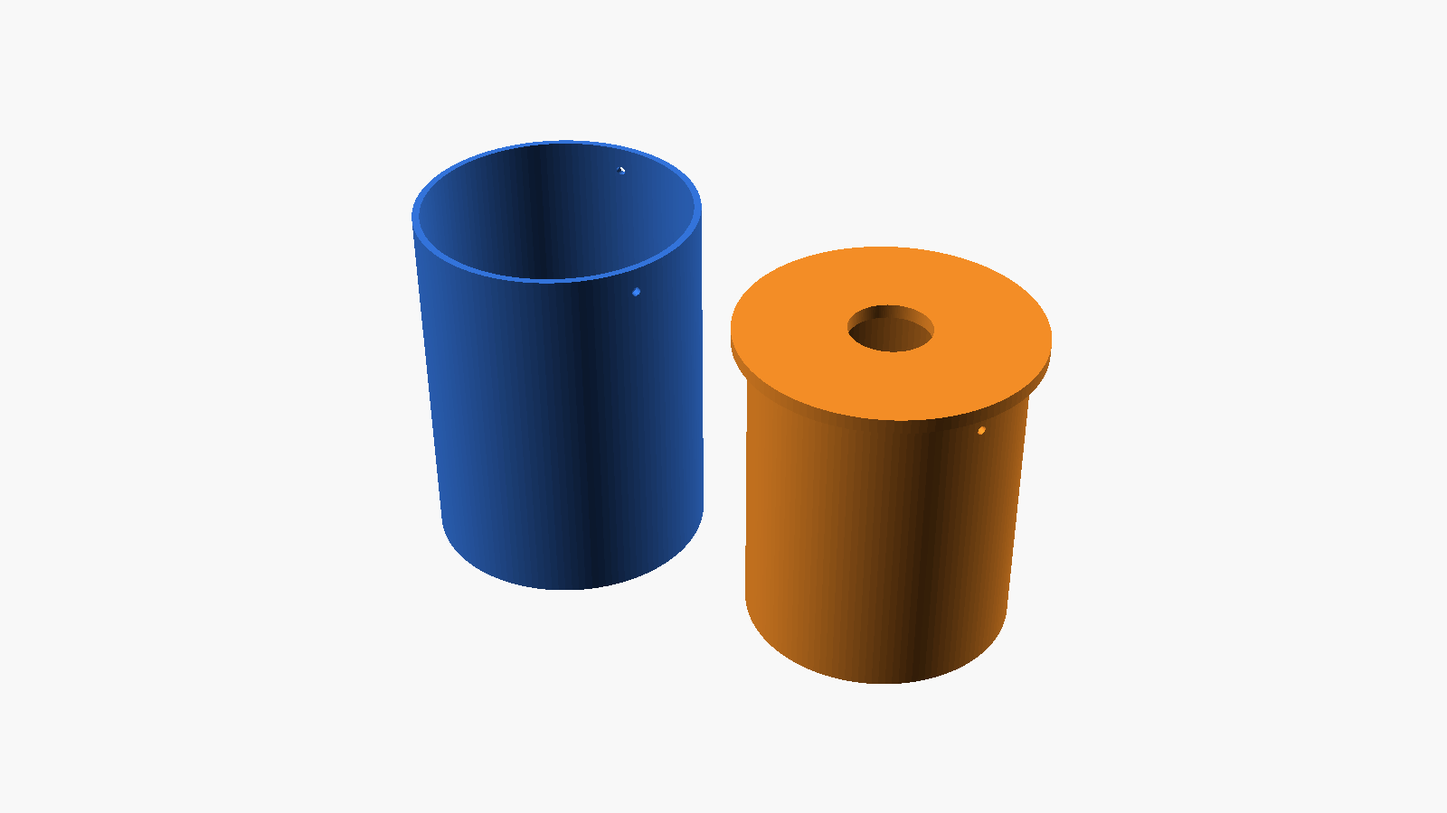
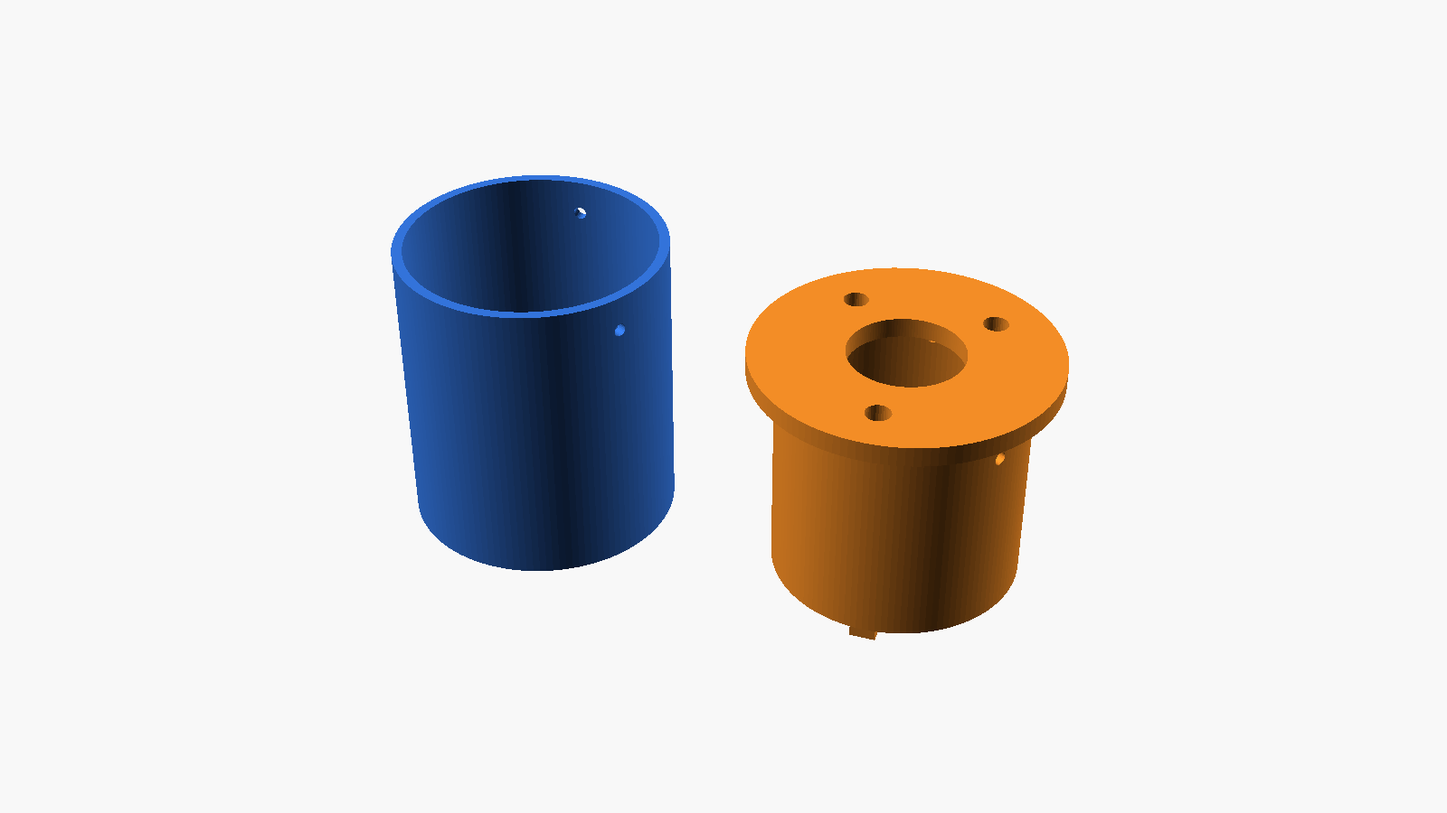
WALL-E: eye cartridge for the 1.75" AMOLED in the 54 mm tube, BOM orders
- cad/eye: cartridge redrawn for the Waveshare ESP32-S3-Touch-AMOLED-1.75
  in a 54 x 90 steel tube; the board screws onto part 2 by its 3 M2 posts
  (positions from Waveshare's 3D model). README: wiring through the back
  header, GPS board, assembly, print notes. Old 2D section removed.
- BOM: eyes (2 standard + 1 GPS version replacing the NEO-M9N), GPS
  antenna parts, 5 CP2102, TOF400C x6 (5 used) + 2 TCA9548A, TPA3116D2
  amp, Pioneer speakers, body fans + filters + D4184 modules, USB hub;
  box vent skipped; chest screen and XPS power left for the end.

Changed region(s): [[0.25, 0.1556, 0.75, 0.84]]

diff --git a/WALL-E/docs/05-bom.md b/WALL-E/docs/05-bom.md
@@ -84,7 +84,7 @@ has the reasoning. Cheap parts, so buy spares of all of them.
 |---|---|---|---|---|---|
 | 5 m | Closed-cell foam tape, 3 mm, self-adhesive | 10 | Stock | The lid gasket. EPDM, not open-cell — open-cell soaks up water and holds grit. | [search](https://www.aliexpress.com/w/wholesale-EPDM-foam-tape-3mm.html) |
 | 1 sheet | Closed-cell foam, 8 mm | 10 | Stock | The pad on top of the packs. Clamps them down and takes the vibration. | [search](https://www.aliexpress.com/w/wholesale-closed-cell-foam-sheet-8mm.html) |
-| 2 | Screw-in membrane vent, M12, IP67 (Gore type or equivalent) | 16 | Stock | 1 needed, 1 spare. Goes in the **lid**. A sealed box breathes with the day/night temperature swing; this is the clean path so it does not pull dust through a leak. | [search](https://www.aliexpress.com/w/wholesale-M12-waterproof-breather-vent.html) |
+| 0 | Screw-in membrane vent, M12, IP67 (Gore type or equivalent) | 0 | **Skipped** (owner, 2026-09-30) | **Not buying.** Packs are sealed on their own and plywood breathes a little anyway. Instead: seal the lid well and check for dust inside the box once during the festival. Was: 1 in the **lid**. A sealed box breathes with the day/night temperature swing; this is the clean path so it does not pull dust through a leak. | [search](https://www.aliexpress.com/w/wholesale-M12-waterproof-breather-vent.html) |
 | 4 | Cable gland, M16, IP68 | 10 | Stock | Charge leads and pack sense wiring out of the box. Not a drilled hole. **The gland holds a jumper, not the pack.** Each traction pack unplugs inside the box (XT60 plus a charge pigtail) so the pack lifts out. | [search](https://www.aliexpress.com/w/wholesale-cable-gland-M16-IP68.html) |
 | 16 | M5 bolts, nuts and washers, 25 mm | 8 | Stock | 12 for the lid at 110 mm pitch, plus spares. A gasket only seals where it is squeezed. | [search](https://www.aliexpress.com/w/wholesale-M5-bolt-nut-washer-set.html) |
 | 3 | **XT60** charge connector with a dust cap, body-mounted | 18 | Stock | One per traction pack, plus one for the electronics battery. **Daily charge is in place.** Each pack also has the mating half on the pack itself, so you can unplug and charge it on a bench. **Label all three.** Two are 48 V and one is 12 V, and the connectors are identical. | [search](https://www.aliexpress.com/w/wholesale-XT60-panel-mount-connector.html) |
@@ -104,16 +104,19 @@ Brain = owned XPS 15 9510 (L25). No internet. Two floors (L26). Camera ordered (
 
 | Qty | Part | Est. | Lead | Notes | Buy from — **read §9 first** |
 |---|---|---|---|---|---|
-| 1 | Filtered intake fan for the body | 15 | Stock | Air **in**. Positive pressure. | [search](https://www.aliexpress.com/w/wholesale-120mm-12V-fan-filter.html) |
-| 1 | Powered USB-C hub, USB 3 | 25 | Stock | The XPS has USB-C only. Webcam, LiDAR, Teensy, both Face boards and the mic share this hub. **Power the hub from the 12 V rail**, not from the laptop. | [search](https://www.aliexpress.com/w/wholesale-powered-USB-C-hub-USB3.html) |
-| 1 | USB-C PD power bank, 20 000 mAh, **65 W or more** | 40 | Stock | Feeds the XPS. Check the label says 65 W PD, not 22.5 W. Strap it on the **lower** deck, not on the laptop tray. Keep it off the laptop vents. Pull it if it gets hot. | local / [search](https://www.aliexpress.com/w/wholesale-20000mAh-65W-PD-power-bank.html) |
+| 2 | Body fans: **Gdstime 12025 IP67, 12 V, dual ball, 2500 RPM**, 2-wire + 120 mm filter/grille set (2) + PC filter sheet 500×400 (3/5 mm, cut 12 pads) + **4 × D4184 MOSFET module** | 25 | **Bought 2026-10-02** | 1 intake (filtered, low on the back, away from the tracks) + passive vent high on the other side; the 2nd fan is the spare or a slow exhaust later (intake must stay ≥ exhaust: positive pressure, or dust comes in through the gaps). Teensy PWM (100–500 Hz, kick-start 1 s at 100 %, never under ~40 %) through a D4184 on the fan minus; the laptop sends the speed from its CPU/GPU temperature. ~3 W full, ~0.8 W at 60 %. D4184s also for the chest screen. Swap/wash filter pads every 1–2 days. | [search](https://www.aliexpress.com/w/wholesale-120mm-12V-fan-filter.html) |
+| 1 | Powered USB hub: **ASOMETECH 7-port USB 3.0, 12 V adapter**, metal, switch per port, USB-C adapter included | 25 | **Ordered 2026-09-30**, ₪76.22 | 7 ports = 7 devices, no spare port (mic goes straight into the XPS). Power: a **DC barrel pigtail** (check size, usually 5.5 × 2.1) from the 12 V rail with a **3 A fuse**; keep the adapter whole for the bench. **Meter the polarity first** (usually centre +). No screw holes: strap or printed clip; tape the upstream cable and C adapter. The XPS has USB-C only. Webcam, LiDAR, Teensy, both Face boards and the mic share this hub. **Power the hub from the 12 V rail**, not from the laptop. | [search](https://www.aliexpress.com/w/wholesale-powered-USB-C-hub-USB3.html) |
+| 1 | USB-C PD power bank, 20 000 mAh, **65 W or more** | 40 | Stock | Feeds the XPS. Check the label says 65 W PD, not 22.5 W. Strap it on the **lower** deck, not on the laptop tray. Keep it off the laptop vents. Pull it if it gets hot. **Open (owner, 2026-09-30; decide at the end of the BOM):** instead, charge the XPS from the 12 V battery: battery → 10 A fuse → **12 V → USB-C PD 65 W converter** (hard-wired, not a lighter plug) → XPS. ~5–6 A from 12 V. A 20 Ah battery then lasts only ~3–3.5 h: options are a **12 V 50 Ah** battery (~8 h, check it fits the lower deck), swap/charge at midday, or a 48 V → USB-C PD converter from a drive pack. | local / [search](https://www.aliexpress.com/w/wholesale-20000mAh-65W-PD-power-bank.html) |
 | 1 | ELP-USB1080P03-KLC1100, metal cube, LC1100 lens | 52 | Ordered 2026-09-23 | **L27.** 1080p 30 fps, SC2210, USB 2.0 UVC, 5 V 180 mA, 3 m cable. **42 × 42 × 36 mm**. LC1100 **86°**. ₪195.65. | owned |
 | 1 | **WitMotion COIN-D6** dToF LiDAR, 12 m, 360° (was RPLIDAR A1M8) | 44 | Stock | Only needed for **ASSIST** (WALL-E driving himself); MANUAL does not use it. dToF, **60 klx** sunlight rating (the A1M8 is triangulation and weak in sun), brushless, IPX4, Class 1 eye-safe. 0.05–12 m, 0.9°, 10 Hz, 4000 pts/s. 5 V 240 mA (800 mA start), 3.3 V UART 230400 with a USB adapter in the box. Operating to **50 °C**: shade it. Protocol PDF, spec sheet and ROS drivers (source) are in the seller's [Drive folder](https://drive.google.com/drive/folders/1_XfZTemyIBoZssQmFW5Jx17jxx3hn337): start `AA 55 F0 0F`, stop `AA 55 F5 0A`, `0x55AA` packets, angle correction in the driver. `perception.py` `_lidar_loop` is still a TODO. | AliExpress ₪163.98, WitMotion, "D6 Lidar" |
-| 6 | VL53L1X time-of-flight distance sensor | 24 | Stock | The bumper ring. These wire to the **Spine**, not the Brain. | [search](https://www.aliexpress.com/w/wholesale-VL53L1X-module.html) |
-| 1 | I2C multiplexer (TCA9548A) | 3 | Stock | Six VL53L1X boards share one I2C address. You need this or you need to sequence their XSHUT pins. | [search](https://www.aliexpress.com/w/wholesale-TCA9548A-I2C-multiplexer.html) |
+| 6 | VL53L1X time-of-flight sensor: **TOF400C-VL53L1X** module (4 m, with black cover) | 23 | **Bought 2026-10-02**, ₪13.20 each | The bumper ring: **5 on the robot (3 front: left, centre, right with the corners ~30° out; 2 back) + 1 spare** (owner, 2026-10-02; was 6). These wire to the **Spine**, not the Brain. Height ~30–40 cm. Check the label says **TOF400C** (the listing photos show TOF200C = VL53L0X). Dust: keep the cover, wipe daily, crosstalk-calibrate with the cover on; firmware flags a sensor that reads short for long ("dirty"). Firmware: `TOF_COUNT` 6 → 5, `TOF_FWD` 3, `TOF_AFT` 2. | [search](https://www.aliexpress.com/w/wholesale-VL53L1X-module.html) |
+| 2 | I2C multiplexer (TCA9548A), 1 + 1 spare | 5 | **Bought 2026-10-02** | Six VL53L1X boards share one I2C address. You need this or you need to sequence their XSHUT pins. | [search](https://www.aliexpress.com/w/wholesale-TCA9548A-I2C-multiplexer.html) |
 | 1 | **GY-BNO085** IMU board, 9-axis fused | 12 | **Ordered 2026-09-28**, ₪44.90 | Pitch for tip safety (ASSIST is refused without it: robot tips forward at 19.4°, castor catches at 9.9°, stop forward above ~7°) and a heading. Wired as **UART-RVC**: **PS0 → 3V3, PS1 → GND**, set before power-up; then **SDA is TX**, 115200 baud, 19-byte packets `AA AA` at 100 Hz with yaw/pitch/roll in 0.01°. Power from 3V3, not 5 V. Only SDA → adapter RXD is needed. Mount flat on the frame, away from the hub motors and power cables (the compass reads their magnets; pitch does not care). | ordered |
-| 1 | USB-TTL adapter, **CP2102**, with a 3V3 output pin | 3 | Stock | Brings the BNO085's serial stream to the laptop (COM port), no Teensy needed. CP2102 is 3.3 V logic; a CH340 board needs its jumper on 3.3 V. | [search](https://www.aliexpress.com/w/wholesale-CP2102-USB-TTL.html) |
-| 1 | u-blox NEO-M9N GPS module | 50 | Stock | Midburn is a flat featureless plain. GPS, not SLAM. | [search](https://www.aliexpress.com/w/wholesale-NEO-M9N-GPS-module.html) |
+| 5 | USB-TTL adapter, **CP2102** (5-pin: 3V3, TXD, RXD, GND, +5V) | 9 | **Bought**: 1 earlier + 4 on 2026-10-01 (₪6.44 each) | 1 for the BNO085 IMU, 1 per eye, 2 spare. Eye: CP2102 TXD → eye RXD, RXD → eye TXD, GND → GND; leave the CP2102 +5V and 3V3 empty (eye power from the RCNUN 5 V). CP2102 is 3.3 V logic. Not PL2303 (fakes, Windows blocks them). | bought |
+| 1 | GPS: **Waveshare ESP32-S3-Touch-AMOLED-1.75-G** (GPS version, LC76G) — one eye board doubles as the GPS | 35 | **Bought 2026-10-01** (~₪124) | **Replaces the u-blox NEO-M9N** (owner, 2026-10-01). Midburn is a flat featureless plain: GPS, not SLAM. LC76G → ESP32 on IO17/IO18 (do not use those header pins for anything else); the eye firmware forwards NMEA to the laptop on its TXD/RXD link. The included ceramic antenna plugs into the **IPEX 1 (u.FL)** socket next to the USB-C: unplug it, unscrew it, keep it for bench tests. The steel tube blocks GPS, so the antenna goes outside (rows below). The 2 standard boards: one eye + one spare. | Waveshare / TOP1 store |
+| 1 lot (5) | Pigtail **IPEX (u.FL) → SMA female**, 1.13 mm, **20 cm** | 3 | **Bought 2026-10-01** (₪11.36) | Board GPS socket → SMA nut in the head wall. Plug the u.FL once; do not pull it; drop of hot glue on the cable. | AliExpress |
+| 1 | **GPS active antenna: QUESCAN 30 dB, SMA male (SMA-J)**, GPS/GLONASS/Galileo/BeiDou, 15 cm cable | 6 | **Bought 2026-10-01** (₪16.49) | **Bare patch, not waterproof:** under the head top cover (dry plywood/plastic; not steel), white square up. SMA socket high in the head so 15 cm reaches; if short, add an SMA male→female RG174 extension 0.5–1 m. **SMA male, not RP-SMA.** Active 3–5 V: the LC76G powers it through the cable. Test outside before the festival (first fix 1–2 min). | [search](https://www.aliexpress.com/w/wholesale-GPS-active-antenna-SMA-male-waterproof.html) |
+| 1 pack + 5 m | **Dupont jumpers male-female**, 20–30 cm, and **4-core shielded cable 24 AWG** | 8 | Stock | The eye header is **female** (holes): male end into the eye, female onto the CP2102 / RCNUN lead. 4 wires per eye: VBUS, GND, TXD, RXD. Fix plugs with hot glue against vibration. | AliExpress |
 | 1 | Microphone: **BOYA BY-MM1** cardioid shotgun (3.5 mm, furry windshield) + **USB-C sound card** | 26 | **Ordered 2026-09-30**, ₪87.99 + ₪7.73 | Laptop mic is inside the body: this goes up front, high, pointing at people's mouths, above the speakers. Mic → sound card mic input (TRS cable, 3 rings, not the coiled phone cable) → USB. Sound card has a **USB-C plug**: fits the XPS, or the hub only with a USB-C port or a C → A adapter. Cheap card: test the mic's plug-in power level; backup Vention USB sound card ₪19. Set WALL-E to this input when it arrives. | ordered |
 
 ---
@@ -122,14 +125,14 @@ Brain = owned XPS 15 9510 (L25). No internet. Two floors (L26). Camera ordered (
 
 | Qty | Part | Est. | Lead | Notes | Buy from — **read §9 first** |
 |---|---|---|---|---|---|
-| 2 | ESP32-S3 development board | 24 | Stock | Two, one per eye. See the warning below. | [search](https://www.aliexpress.com/w/wholesale-ESP32-S3-development-board.html) |
-| 2 | 2.1 inch round LCD, 480×480, QSPI (Waveshare) | 60 | Stock | 53 mm active area. The barrel in the CAD model is built around this size. | [search](https://www.aliexpress.com/w/wholesale-2.1-inch-round-LCD-480x480-QSPI.html) **§9** |
-| 2 | Clear acrylic dome or lens, Ø99 | 20 | Stock | Dust seal and the glassy look. `cad/walle_frame.scad`. | [search](https://www.aliexpress.com/w/wholesale-acrylic-dome-100mm.html) |
+| 2 | Eye: **Waveshare ESP32-S3-Touch-AMOLED-1.75**, standard version (no case, no GPS) | 52 | **Bought 2026-10-01**, ₪95.40 each | One per eye, in the **54 mm (inside) × 90 mm** steel tube. ESP32-S3R8 + 1.75" round AMOLED 466×466, 700 nits. Glass Ø48.96, picture Ø43.76, board Ø46.0, 10.4 mm thick (Waveshare drawing). USB-C is on the board edge, facing the tube wall: no room for a plug. **In the robot use the back header** `IO18 IO17 IO16 RXD TXD 3V3 GND VBUS`: VBUS + GND = 5 V from the RCNUN, TXD/RXD → CP2102 → hub. AMOLED burns in: keep the eyes moving, off in sleep. `cad/eye/README.md`. | Waveshare store |
+| 0 | ~~2.1 inch round LCD + separate ESP32-S3 board~~ | 0 | **Replaced** (2026-10-01) | The AMOLED board above has screen + ESP32 in one. The 2.1" (Ø75) does not fit the eye tubes. | — |
+| 0 | ~~Clear acrylic dome, Ø99~~ | 0 | **Dropped** (2026-10-01) | Screen sits ~30 mm deep in the tube behind its own glass; foam ring + printed lip seal the front. | — |
 | 1 | Camera mount hardware and a plywood hood for the lens | 15 | Stock | The ELP cube goes **under** the eye barrels, not between them. See the head note below. | local |
-| 1 | **TPA3116D2 two-chip** board (one chip per channel, big heatsink, sold as "150 W × 2", 12–26 V) | 8 | Stock | Owner, 2026-09-29: replaces the TPA3255 (price). Two-chip over the XH-M567 for heat in the sealed box, not for volume: 24 V sets the power either way. No tone knobs; set tone on the XPS. **Check the capacitors are 35 V**, not 25 V, before paying. Runs on the **24 V** supply, not the pack and not the 12 V rail. **26 V maximum.** About 50 W per channel into 4 Ω: roughly 108 dB peak at 1 m with two 88 dB speakers, about 3 dB below the TPA3255. Buy the speakers on sensitivity to win that back. `04-power-and-wiring.md` section 4. | [search](https://www.aliexpress.com/w/wholesale-TPA3116D2-amplifier-board.html) |
-| 2 | Full-range or coaxial speaker, 6.5 inch, **4 Ω** | 60 | Stock | One per amplifier channel. Ø165 cutout, Ø190 rim, 50 mm deep — the chest panel is drilled for exactly that. **Check the mounting depth on the one you buy**; over 200 mm and the enclosure has to grow. | [search](https://www.aliexpress.com/w/wholesale-6.5-inch-speaker-4-ohm.html) |
-| 2 | Speaker grille, Ø190, steel | 20 | Stock | Not optional. A crowd will push a finger through an open cone. | [search](https://www.aliexpress.com/w/wholesale-speaker-grille-190mm.html) |
-| 1 | 7 inch HDMI LCD, 800×480, **183 × 107 mm** | 25 | Stock | **L28.** Portrait between the speakers: 107 wide, 183 tall. 16.5 mm to each rim. HDMI from the XPS. Power from the 12 V rail. Acrylic cover. Not the Spine. | [search](https://www.aliexpress.com/w/wholesale-7-inch-HDMI-LCD-800x480.html) |
+| 1 | **TPA3116D2 two-chip** board (one chip per channel, big heatsink, sold as "150 W × 2", 12–26 V) | 8 | **Bought 2026-10-02**, ₪26.24 (RGeek Official Store, blue board, 3-pin input lead; check the caps say 35 V on arrival) | Owner, 2026-09-29: replaces the TPA3255 (price). Two-chip over the XH-M567 for heat in the sealed box, not for volume: 24 V sets the power either way. No tone knobs; set tone on the XPS. **Check the capacitors are 35 V**, not 25 V, before paying. Runs on the **24 V** supply, not the pack and not the 12 V rail. **26 V maximum.** About 50 W per channel into 4 Ω: roughly 108 dB peak at 1 m with two 88 dB speakers, about 3 dB below the TPA3255. Buy the speakers on sensitivity to win that back. `04-power-and-wiring.md` section 4. | [search](https://www.aliexpress.com/w/wholesale-TPA3116D2-amplifier-board.html) |
+| 2 | Speaker, 6.5 inch coaxial, **4 Ω**: **Pioneer TS-A1688S** pair (assumed; owner bought 2026-10-02 from alexsander.co.il, my pick of the 3 shown) | 75 | **Bought 2026-10-02**, ₪269 the pair | ~92 dB, ~80 W RMS (from memory: check the box). Plastic/mesh grilles included. One per amplifier channel. Ø165 cutout, Ø190 rim, 50 mm deep — the chest panel is drilled for exactly that. **Check the mounting depth on the one you buy**; over 200 mm and the enclosure has to grow. | [search](https://www.aliexpress.com/w/wholesale-6.5-inch-speaker-4-ohm.html) |
+| 2 | Speaker grille, Ø190, steel | 20 | Optional (2026-10-02) | The speakers came with grilles. Steel is stronger for crowds: decide after fitting. Was: not optional. A crowd will push a finger through an open cone. | [search](https://www.aliexpress.com/w/wholesale-speaker-grille-190mm.html) |
+| 1 | 7 inch HDMI LCD, 800×480, **183 × 107 mm** | 25 | **Open (owner, 2026-10-02): decide at the end of the BOM.** IPS, bright (≥400 nits), 12 V. Turn it off when not needed: Windows screen-off in sleep, plus a **D4184 MOSFET module** (×2) on its 12 V feed, switched by a Teensy pin (0 W off; ~3–6 W on). | **L28.** Portrait between the speakers: 107 wide, 183 tall. 16.5 mm to each rim. HDMI from the XPS. Power from the 12 V rail. Acrylic cover. Not the Spine. | [search](https://www.aliexpress.com/w/wholesale-7-inch-HDMI-LCD-800x480.html) |
 | — | 12 mm ply for the two enclosures, plus bracing | 25 | Stock | About 0.6 m². Sizes echoed by `cad/walle_frame.scad`. | timber yard |
 | — | Gasket tape, acoustic wadding, M5 bolts for the drivers and the boxes | 20 | Stock | The boxes **bolt** to the chest panel — they shade 54 % of the shelf and have to lift out. | [search](https://www.aliexpress.com/w/wholesale-acoustic-wadding-speaker.html) |
 | — | LED strip, drivers, eye illumination | 120 | Stock | | [search](https://www.aliexpress.com/w/wholesale-WS2812B-LED-strip.html) |
@@ -182,13 +185,13 @@ Set failsafe on every channel to the last column. Test: TX off, on blocks. Wirel
 |---|---|---|
 | 1 — de-risking (Teensy owned; FS-i6X set ordered, $41, not a $120 generic) | now | 173 |
 | 1b — throttle interface for the scooter controllers | now | 60 |
-| 2 — frame and drive, including sealing the box and the electronics battery | 1 | 651 |
-| 3 — compute and sensors (COIN-D6 $44, not the A1M8 $100; BNO085 ordered $12 + CP2102 $3) | 2 | 288 |
-| 4 — face and sound | 4 | 409 |
+| 2 — frame and drive, including sealing the box and the electronics battery | 1 | 635 |
+| 3 — compute and sensors (COIN-D6 $44, not the A1M8 $100; BNO085 ordered $12 + 5 × CP2102 $9; GPS = eye board -G + antenna $44, was NEO-M9N $50; jumpers/cable $8) | 2 | 296 |
+| 4 — face and sound (eyes: 2 × AMOLED 1.75 $52, no dome) | 4 | 357 |
 | 5 — body and head, plywood | 5 | 315 |
 | Tools and consumables not listed above | throughout | 250 |
 | Spares kit (`00-plan.md` phase 6) | 6 | 300 |
-| **Total** | | **≈ 2,446** |
+| **Total** | | **≈ 2,386** |
 
 Cut first: LiDAR, GPS+IMU, LED strip. Do not cut: DC contactors, crimp tool, current-limited bench supply, hardware watchdog.
 

diff --git a/WALL-E/cad/eye/README.md b/WALL-E/cad/eye/README.md
@@ -1,93 +1,118 @@
 # WALL-E eyes — steel tube + printed cartridge
 
-Decided with Shahar, 2026-09-30. One eye = one steel tube + one cartridge.
-Build 2.
-
-![side cut](eye_cartridge_cut.png)
+Decided with Shahar, 2026-10-01. One eye = one steel tube + one cartridge.
 
 ![the 2 printed parts](eye_cartridge_parts.png)
 
+![assembled, cut in half](eye_cartridge_cut.png)
+
 ## Decisions
 
-- **Eye body:** steel tube (owner's). ESP32 goes **inside** the tube.
-- **Screen:** Waveshare **ESP32-S3-Touch-LCD-2.1B**: round 480×480, ESP32-S3 on
-  the back, one USB-C. "B" = 2.5D curved glass (looks like an eyeball). Touch
-  not used. Board **Ø75**.
-- **Buy from:** Ingcool (official Waveshare distributor), ~₪121.55 each +
-  ~₪30.54 shipping. 2 needed.
-- **Sun shade:** screen sits **40 mm deep**. Inside of the tube painted
-  **matte black** (no liner).
-- **Mount:** a 2-part printed **cartridge**. The whole eye is built on the
-  table, then slides into the tube. **3 screws** from outside hold it.
-- **Cable seal:** PG16 gland (the USB-C plug passes through) + **silicone**
-  (better than hot glue: hot glue goes soft at 60–80 °C in the sun).
+- **Tube:** steel, **54 mm inside × 90 mm long** (owner's). Outside Ø: **measure**.
+- **Screen + computer:** Waveshare **ESP32-S3-Touch-AMOLED-1.75**: round AMOLED
+  466×466, 700 nits, ESP32-S3R8 on the back. Touch not used.
+  - Bought: 2 × standard + 1 × **-G** (GPS version). The GPS board is one eye
+    and the GPS. One standard board is the spare.
+- **Sun shade:** glass front sits **33 mm deep**. Paint the inside of the tube
+  **matte black**.
+- **Mount:** 2 printed parts. The board screws onto part 2 with **3 × M2**
+  into its own brass posts. The eye is built on the table, then slides into the
+  tube. **3 × M3** from outside hold it.
+- **Wires:** the USB-C is on the board edge, facing the tube wall: no room for a
+  plug. Use the **header on the back** instead (see Wiring).
+- **AMOLED burns in:** the eyes must always move a little, and turn off in sleep.
+
+## Board numbers (Waveshare 3D model)
+
+Measured from the glass front, along the axis:
+
+| What | Size / depth |
+|---|---|
+| Glass | Ø48.96, 1.10 thick |
+| Picture (visible) | Ø44.16 |
+| Board | Ø46.0 |
+| USB-C (edge, r 23.8) | ends 10.15 behind the glass |
+| 3 brass posts, M2, Ø3.5 | tips 10.43 behind the glass; at (±13.75, 14.70) and (0, −20.50), header side up |
+| Header (female, 8 pins) | ends 12.70 behind the glass |
 
 ## Parts per eye
 
 | # | Part | Size | Source |
 |---|---|---|---|
-| 1 | Steel tube | **measure** (placeholder: inside 80, outside 84, length 144) | owned |
-| 2 | Matte black paint inside, front ~45 mm | steel primer + flat/BBQ black | local |
-| 3 | **Part 1**: sleeve + front lip | outside = tube inside − 0.4; lip hole 66; wall 2 | print |
-| 4 | Foam ring | outside 75, hole 66, ~1.5 mm | cut from closed-cell foam sheet |
-| 5 | Screen | Ø75, thickness **measure** (placeholder 12) | Waveshare 2.1B |
-| 6 | **Part 2**: pusher tube + cap | pusher presses the board rim (71–75); cap hole 22.8 | print |
-| 7 | PG16 cable gland, black | thread 22.5 | AliExpress, 10 pcs ~₪6 |
-| 8 | 3 × M3 self-tapping screw | through steel + part 1 + part 2 | local |
-| 9 | USB-C cable → neck → powered USB hub | length to the hub | — |
-| 10 | Silicone sealant around the cable in the gland | — | local |
-
-## Before printing: measure and set
-
-In `eye_cartridge.scad`, top of the file:
-
-- `tube_id`, `tube_od`, `tube_len`: the real tube.
-- `screen_t`: the real screen (glass + board + parts on the back).
-- Check where the **USB-C socket** is on the board: the pusher tube leaves
-  Ø71 free on the back. If the socket is at the edge, the pusher needs a slot.
+| 1 | Steel tube | 54 inside × 90 | owned |
+| 2 | Matte black paint inside, front ~35 mm | steel primer + flat black | local |
+| 3 | **Part 1** (`eye_part1.stl`): sleeve + front lip | outside 53.6, inside 49.5, lip hole 45, 60 long | print |
+| 4 | Foam ring | outside 49, hole 45.5, ~1.5 mm | cut from closed-cell (EPDM) foam sheet |
+| 5 | Eye board | Waveshare AMOLED 1.75 | bought |
+| 6 | **Part 2** (`eye_part2.stl`): carrier tube + cap | outside 49.1, cap Ø = tube outside | print |
+| 7 | 3 × **M2×6** screw | board posts → part 2 | local / AliExpress |
+| 8 | 3 × **M3** self-tapping screw, ~8 mm | steel + part 1 + part 2 | local |
+| 9 | **PG16** cable gland, black | in the cap, hole 22.8 | AliExpress |
+| 10 | Silicone sealant | gland + the 3 screwdriver holes in the cap | local |
+| 11 | 4 wires: Dupont male → header; 4-core shielded 24 AWG | VBUS, GND, TXD, RXD | AliExpress |
+| GPS eye only | IPEX → SMA pigtail 20 cm, SMA extension 50 cm, QUESCAN antenna | antenna under the head top cover | bought |
 
 ## Print
 
-- **PETG or ASA, black.** Not PLA (soft at ~55 °C; a steel tube in the sun
-  gets hotter).
-- 4+ walls, 40 % infill (the screws go into it).
-- Export:
+- **PETG or ASA, black.** Not PLA (soft at ~55 °C; steel in the sun gets hotter).
+- 4+ walls, 40 % infill (the screws go into it). No supports.
+- Part 1: lip down. Part 2: the STL is already cap down.
+- Print **3 sets** (2 eyes + 1 spare).
+- Re-export after a change:
   ```
   openscad -D part=\"p1\" -o eye_part1.stl eye_cartridge.scad
   openscad -D part=\"p2\" -o eye_part2.stl eye_cartridge.scad
   ```
-  (`p2` is exported cap-down, ready to print.) Print 2 of each.
 
 ## Assembly (per eye)
 
-1. Paint the inside of the tube (primer, then matte black), front ~45 mm.
-2. Stick the foam ring on the back of the part 1 lip.
-3. Screen into part 1 from the back, glass forward, against the foam.
-4. USB-C cable through the PG16 gland in the part 2 cap; plug into the screen.
-5. Part 2 into part 1: the pusher presses the screen forward.
-6. Whole cartridge into the tube from the back, until the cap sits on the tube end.
-7. Drill 3 × 3.2 mm through the steel at the 3 holes (7 mm from the end).
+1. GPS board only: unplug the small antenna (IPEX plug next to the USB-C, lift
+   straight up), unscrew it. Plug the pigtail into the same socket.
+2. Program the board once on the table, with a normal USB-C cable.
+3. Plug the 4 wires into the header (male Dupont). Drop of hot glue on them.
+4. Wires (and the pigtail) through the PG16 gland in the part 2 cap.
+5. Board onto the 3 pads of part 2. **3 × M2×6** through the 3 screwdriver holes
+   in the cap. Do not overtighten: the posts are small.
+6. Stick the foam ring on the back of the part 1 lip.
+7. Part 2 (with the board) into part 1, glass first, until the glass touches the foam.
+8. Whole cartridge into the painted tube from the back, until the cap sits on the tube end.
+9. Drill 3 × 3.2 mm through the steel at the 3 holes (7 mm from the end).
    Drive 3 × M3 self-tapping screws.
-8. Tighten the gland; fill around the cable with silicone.
+10. Tighten the gland. Seal the gland and the 3 screwdriver holes with silicone.
 
-**Repair:** remove 3 screws, pull the cartridge out.
+**Repair:** cut the silicone, remove 3 × M3, pull the cartridge out.
+
+## Wiring
+
+Header on the back: `IO18 · IO17 · IO16 · RXD · TXD · 3V3 · GND · VBUS`
+
+| Eye pin | Goes to |
+|---|---|
+| VBUS | +5 V from the RCNUN 12→5 V converter |
+| GND | GND (converter and CP2102) |
+| TXD | CP2102 **RXD** |
+| RXD | CP2102 **TXD** |
+
+- The CP2102 plugs into the USB hub. Leave its +5V and 3V3 pins empty.
+- GPS board: IO17 / IO18 belong to the GPS. Do not use them. The eye firmware
+  forwards the GPS data on TXD/RXD.
 
 ## Files
 
 | File | What |
 |---|---|
 | `eye_cartridge.scad` | the 2 parts. `part = "p1" / "p2" / "all" / "cut"` |
-| `eye_cartridge_section.scad` | the labelled side-cut drawing above |
-| `eye_cartridge_cut.png` | side cut (labelled) |
+| `eye_part1.stl`, `eye_part2.stl` | ready to print |
 | `eye_cartridge_parts.png` | the 2 parts |
+| `eye_cartridge_cut.png` | assembled, cut in half |
 
 ## Still open
 
-- Tube measurements (inside, outside, length).
-- Screen thickness and USB-C socket position (when the screens arrive).
-- Software: the Waveshare board drives its screen itself (RGB, ST7701).
-  `firmware/face/panel_cfg.h` is still a placeholder: use Waveshare's example
-  code for this board, not a QSPI setup.
-- Old plan in `cad/walle_frame.scad` and `docs/02-overview.md`: 60 mm recess +
-  clear acrylic dome. This design: 40 mm recess, no dome (the 2.1B glass is
-  already curved). Update those files when the tube is measured.
+- Tube **outside Ø** → set `tube_od` (now 60, a guess) and re-export part 2.
+  It only changes the cap's outer edge. Part 2 works as it is.
+- Check the real board when it arrives (post positions, header height), before
+  printing all 3 sets. Print 1 set first.
+- Firmware: `firmware/face` is written for the old 2.1" screen. The new board uses
+  a CO5300 driver (QSPI). Start from Waveshare's example code for this board.
+- `cad/walle_frame.scad` and `docs/02-overview.md` still describe the old eye
+  (Ø99 barrel, 60 mm recess, acrylic dome).
